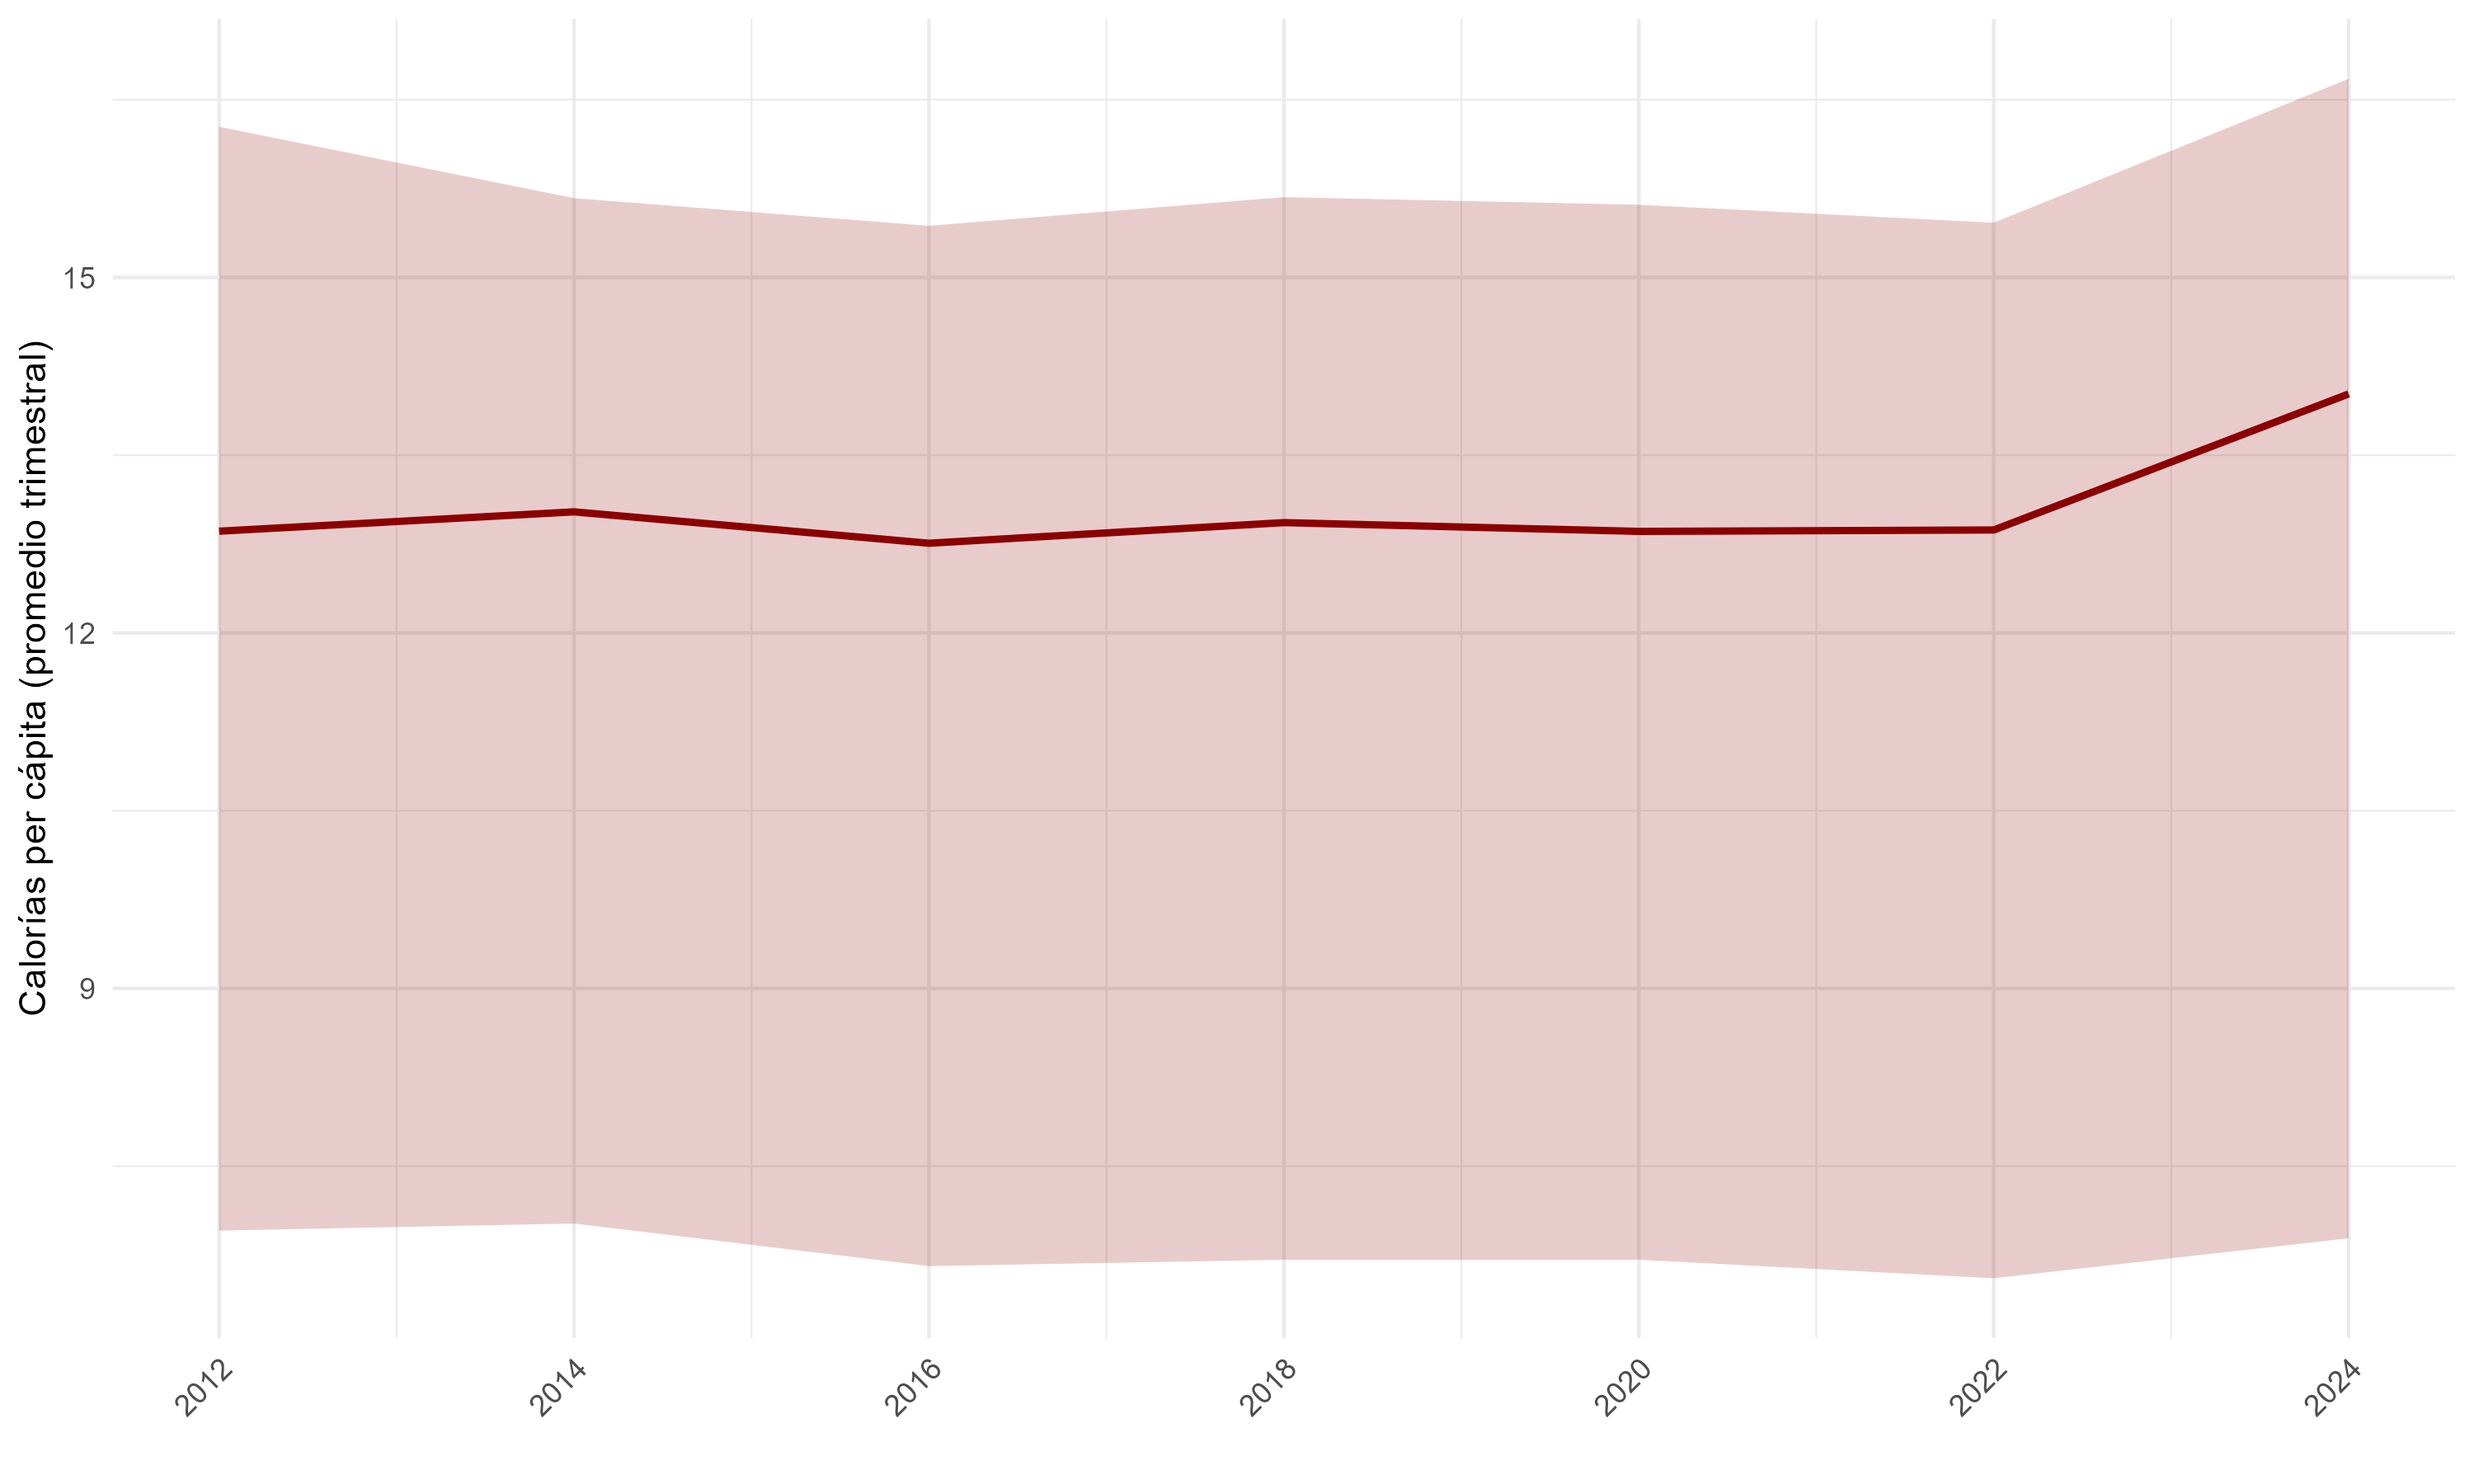
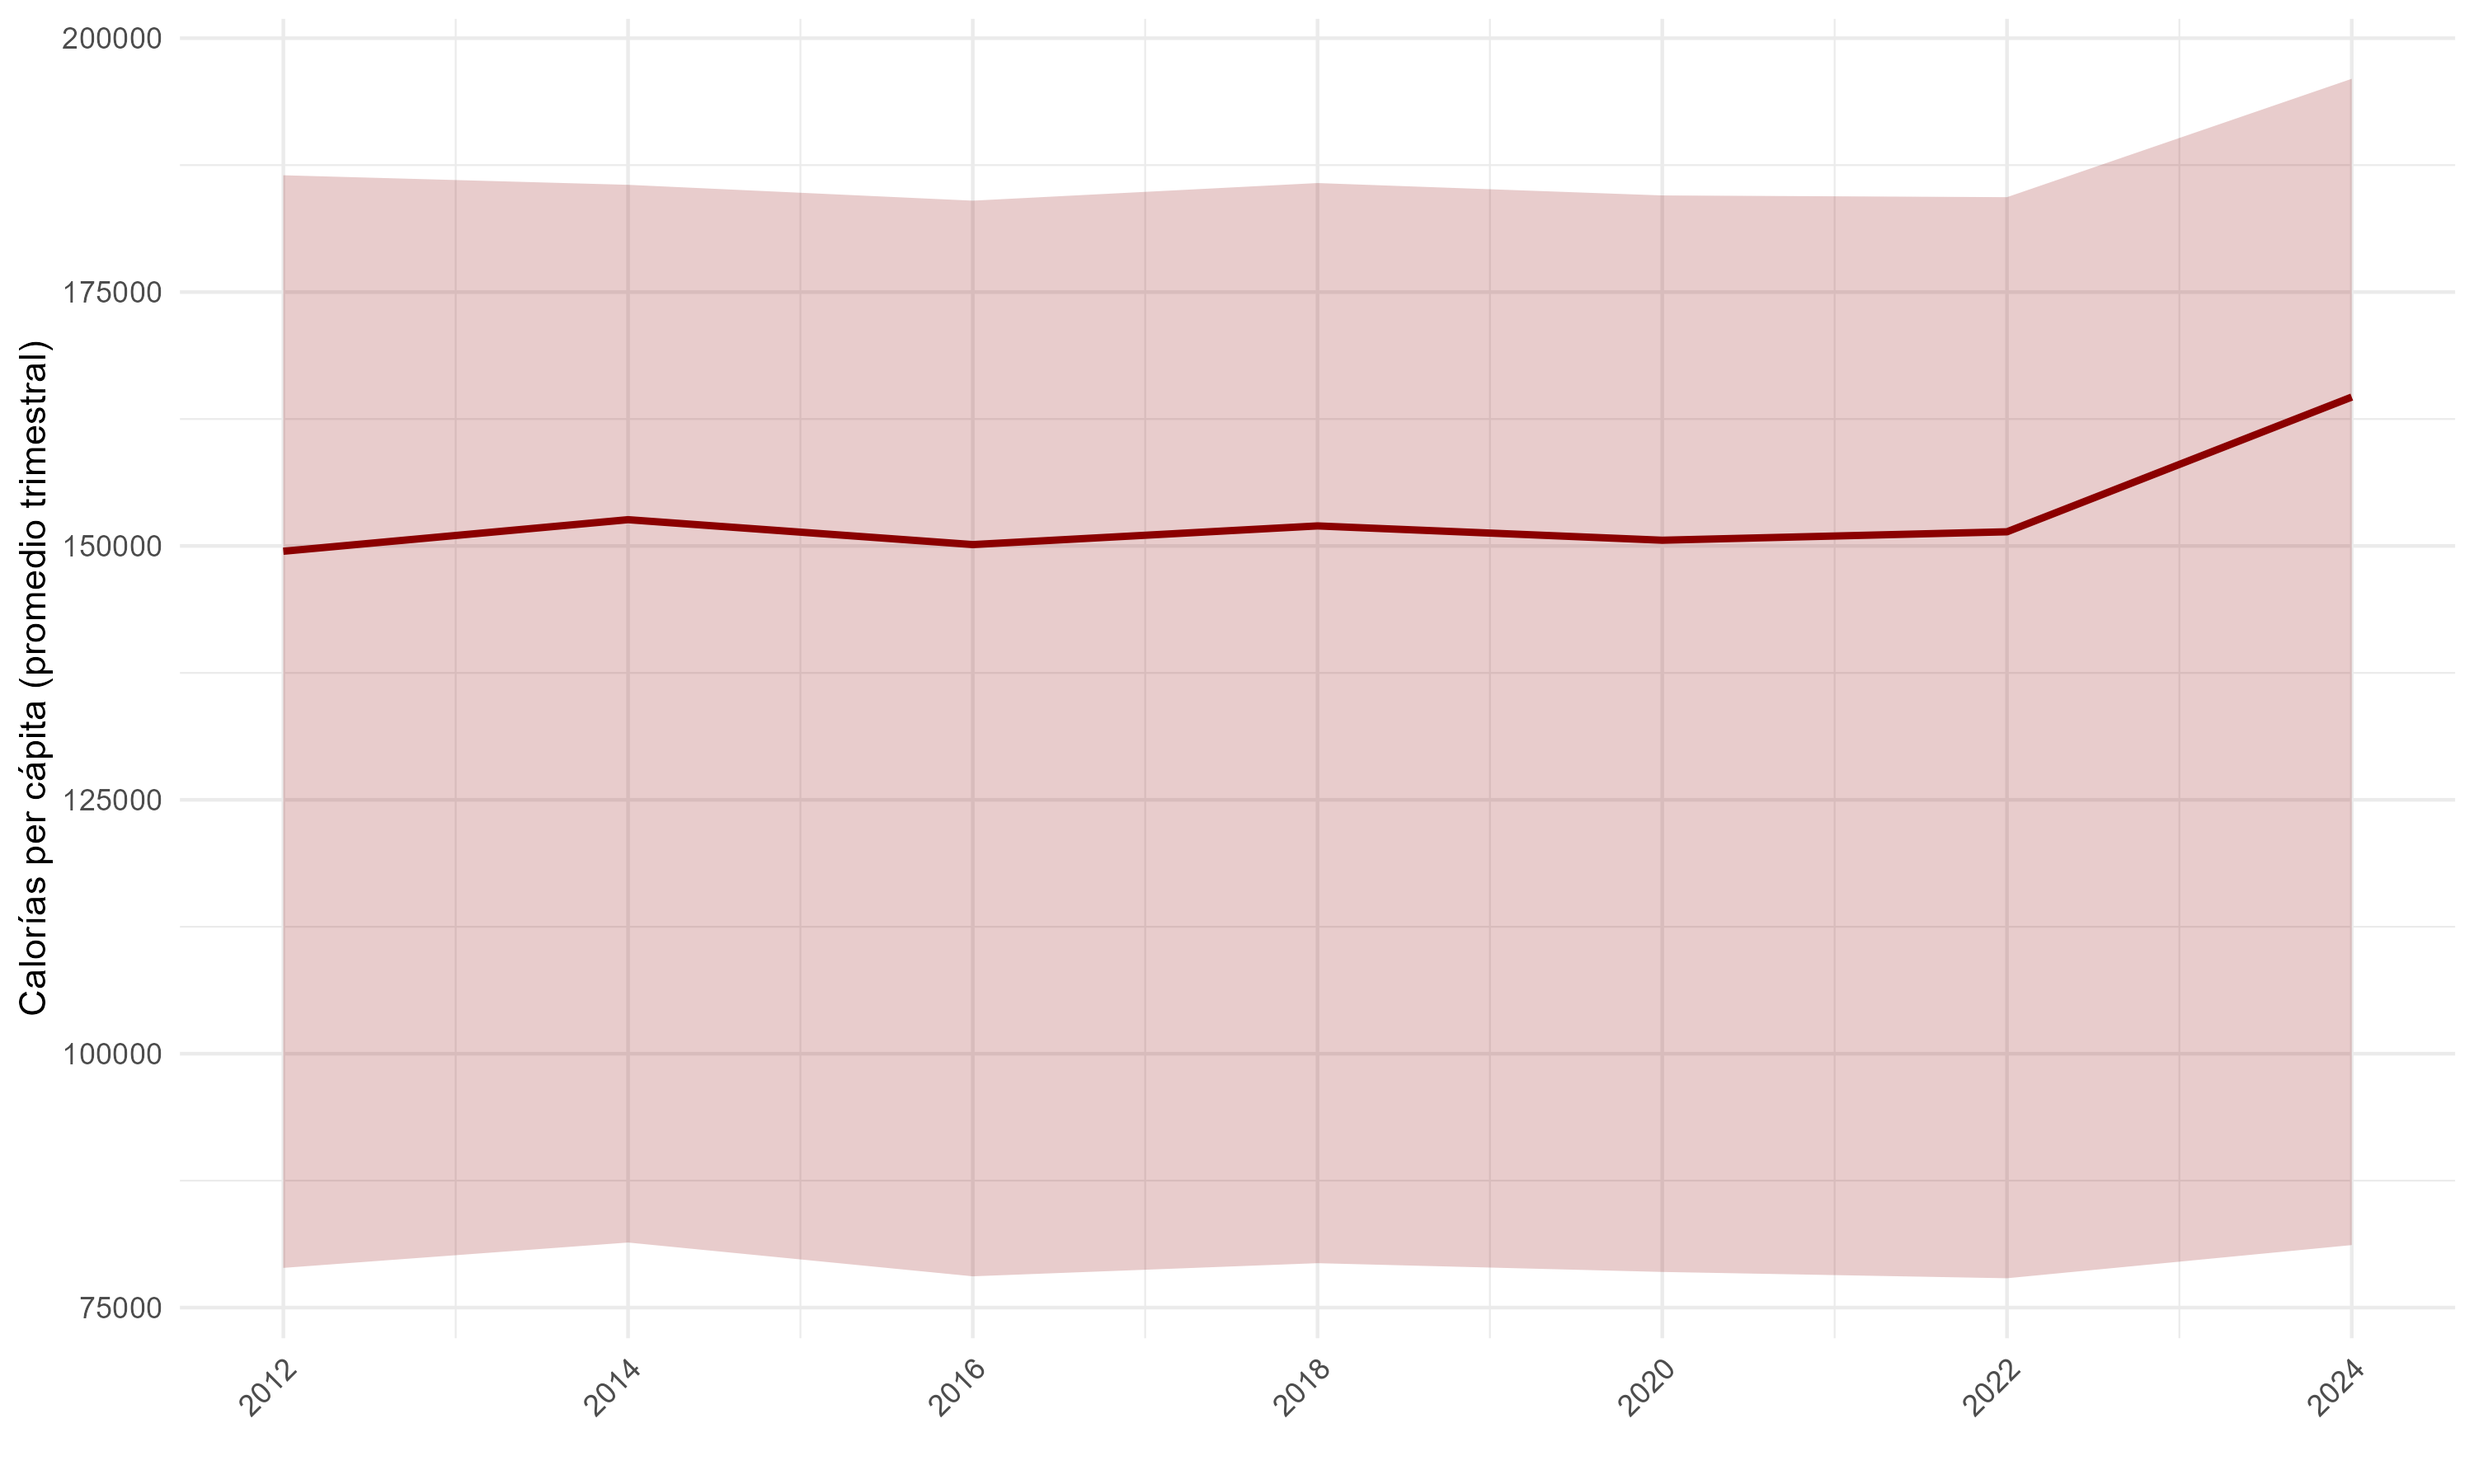
Regenera tablas y figura con base_completa actual (N=435,794)

diff --git a/output/tablas/tab_loglog.tex b/output/tablas/tab_loglog.tex
@@ -15,25 +15,25 @@ column{2-8}={}{halign=c},
 column{1}={}{halign=l},
 }                     %% tabularray inner close
 & (1) & (2) & (3) & (4) & (5) & (6) & (7) \\
-Log(tasa homicidios \$+\$ 1) & \num{-0.110}*** & \num{-0.144}*** & \num{-0.137}*** & \num{-0.042}*** & \num{-0.007} & \num{0.006} & \num{0.010} \\
-& (\num{0.030}) & (\num{0.037}) & (\num{0.037}) & (\num{0.015}) & (\num{0.014}) & (\num{0.013}) & (\num{0.012}) \\
-Log(tasa homicidios) \$t-1\$ &  &  &  &  &  & \num{-0.035}*** & \num{-0.029}** \\
-&  &  &  &  &  & (\num{0.013}) & (\num{0.014}) \\
-Log(tasa homicidios) \$t-2\$ &  &  &  &  &  &  & \num{-0.005} \\
-&  &  &  &  &  &  & (\num{0.013}) \\
-Integrantes del hogar &  & \num{-0.137}*** & \num{-0.138}*** & \num{-0.143}*** & \num{-0.146}*** & \num{-0.148}*** & \num{-0.151}*** \\
+Log(tasa homicidios \$+\$ 1) & \num{-0.052}** & \num{-0.066}** & \num{-0.061}** & \num{0.020} & \num{-0.009} & \num{0.003} & \num{0.005} \\
+& (\num{0.025}) & (\num{0.028}) & (\num{0.027}) & (\num{0.013}) & (\num{0.016}) & (\num{0.015}) & (\num{0.014}) \\
+Log(tasa homicidios) \$t-1\$ &  &  &  &  &  & \num{-0.039}** & \num{-0.031}* \\
+&  &  &  &  &  & (\num{0.016}) & (\num{0.016}) \\
+Log(tasa homicidios) \$t-2\$ &  &  &  &  &  &  & \num{-0.014} \\
+&  &  &  &  &  &  & (\num{0.015}) \\
+Integrantes del hogar &  & \num{-0.115}*** & \num{-0.116}*** & \num{-0.118}*** & \num{-0.117}*** & \num{-0.119}*** & \num{-0.122}*** \\
 &  & (\num{0.002}) & (\num{0.002}) & (\num{0.002}) & (\num{0.002}) & (\num{0.002}) & (\num{0.002}) \\
 FE año & No & No & Sí & Sí & No & No & No \\
 FE entidad & No & No & No & Sí & No & No & No \\
 FE municipio & No & No & No & No & Sí & Sí & Sí \\
 FE tiempo & No & No & No & No & Sí & Sí & Sí \\
-Cobertura cat\textbackslash{}'\{a\}logo &  & \num{2.167}*** & \num{2.176}*** & \num{2.227}*** & \num{2.221}*** & \num{2.229}*** & \num{2.252}*** \\
-&  & (\num{0.025}) & (\num{0.025}) & (\num{0.022}) & (\num{0.022}) & (\num{0.022}) & (\num{0.022}) \\
-Num.Obs. & \num{437816} & \num{437816} & \num{437816} & \num{437816} & \num{437816} & \num{424159} & \num{406433} \\
-R2 & \num{0.001} & \num{0.289} & \num{0.290} & \num{0.319} & \num{0.343} & \num{0.348} & \num{0.351} \\
-R2 Adj. & \num{0.001} & \num{0.289} & \num{0.290} & \num{0.319} & \num{0.341} & \num{0.345} & \num{0.349} \\
-R2 Within &  &  & \num{0.289} & \num{0.303} & \num{0.307} & \num{0.313} & \num{0.318} \\
-R2 Within Adj. &  &  & \num{0.289} & \num{0.303} & \num{0.307} & \num{0.313} & \num{0.318} \\
+Cobertura cat\textbackslash{}'\{a\}logo &  & \num{2.025}*** & \num{2.031}*** & \num{2.097}*** & \num{2.104}*** & \num{2.114}*** & \num{2.146}*** \\
+&  & (\num{0.028}) & (\num{0.029}) & (\num{0.026}) & (\num{0.026}) & (\num{0.027}) & (\num{0.026}) \\
+Num.Obs. & \num{435794} & \num{435794} & \num{435794} & \num{435794} & \num{435794} & \num{422207} & \num{404578} \\
+R2 & \num{0.000} & \num{0.208} & \num{0.209} & \num{0.228} & \num{0.253} & \num{0.257} & \num{0.261} \\
+R2 Adj. & \num{0.000} & \num{0.208} & \num{0.209} & \num{0.227} & \num{0.250} & \num{0.254} & \num{0.258} \\
+R2 Within &  &  & \num{0.208} & \num{0.216} & \num{0.217} & \num{0.223} & \num{0.230} \\
+R2 Within Adj. &  &  & \num{0.208} & \num{0.216} & \num{0.217} & \num{0.223} & \num{0.230} \\
 FE: municipio\_id &  &  &  &  & X & X & X \\
 FE: time\_id &  &  &  &  & X & X & X \\
 FE: year &  &  & X & X &  &  &  \\

diff --git a/output/tablas/tab_lognivel.tex b/output/tablas/tab_lognivel.tex
@@ -15,25 +15,25 @@ column{2-7}={}{halign=c},
 column{1}={}{halign=l},
 }                     %% tabularray inner close
 & (1) & (2) & (3) & (4) & (5) & (6) \\
-Tasa homicidios & \num{-0.046}*** & \num{-0.066}*** & \num{-0.062}*** & \num{-0.011} & \num{-0.002} & \num{0.007} \\
-& (\num{0.017}) & (\num{0.020}) & (\num{0.020}) & (\num{0.008}) & (\num{0.007}) & (\num{0.006}) \\
+Tasa homicidios & \num{-0.025}* & \num{-0.037}** & \num{-0.033}** & \num{0.012}* & \num{-0.001} & \num{0.005} \\
+& (\num{0.013}) & (\num{0.015}) & (\num{0.014}) & (\num{0.007}) & (\num{0.008}) & (\num{0.007}) \\
 Tasa homicidios \$t-1\$ &  &  &  &  &  & \num{-0.018}** \\
+&  &  &  &  &  & (\num{0.009}) \\
+Tasa homicidios \$t-2\$ &  &  &  &  &  & \num{-0.007} \\
 &  &  &  &  &  & (\num{0.008}) \\
-Tasa homicidios \$t-2\$ &  &  &  &  &  & \num{-0.001} \\
-&  &  &  &  &  & (\num{0.007}) \\
-Integrantes del hogar &  & \num{-0.136}*** & \num{-0.138}*** & \num{-0.143}*** & \num{-0.146}*** & \num{-0.151}*** \\
+Integrantes del hogar &  & \num{-0.115}*** & \num{-0.116}*** & \num{-0.118}*** & \num{-0.117}*** & \num{-0.121}*** \\
 &  & (\num{0.002}) & (\num{0.002}) & (\num{0.002}) & (\num{0.002}) & (\num{0.002}) \\
 FE año & No & No & Sí & Sí & No & No \\
 FE entidad & No & No & No & Sí & No & No \\
 FE municipio & No & No & No & No & Sí & Sí \\
 FE tiempo & No & No & No & No & Sí & Sí \\
-Cobertura cat\textbackslash{}'\{a\}logo &  & \num{2.167}*** & \num{2.176}*** & \num{2.227}*** & \num{2.221}*** & \num{2.252}*** \\
-&  & (\num{0.025}) & (\num{0.025}) & (\num{0.022}) & (\num{0.022}) & (\num{0.022}) \\
-Num.Obs. & \num{437816} & \num{437816} & \num{437816} & \num{437816} & \num{437816} & \num{406433} \\
-R2 & \num{0.000} & \num{0.288} & \num{0.290} & \num{0.319} & \num{0.343} & \num{0.351} \\
-R2 Adj. & \num{0.000} & \num{0.288} & \num{0.290} & \num{0.319} & \num{0.341} & \num{0.349} \\
-R2 Within &  &  & \num{0.289} & \num{0.303} & \num{0.307} & \num{0.318} \\
-R2 Within Adj. &  &  & \num{0.289} & \num{0.303} & \num{0.307} & \num{0.318} \\
+Cobertura cat\textbackslash{}'\{a\}logo &  & \num{2.025}*** & \num{2.031}*** & \num{2.097}*** & \num{2.104}*** & \num{2.146}*** \\
+&  & (\num{0.028}) & (\num{0.029}) & (\num{0.026}) & (\num{0.026}) & (\num{0.026}) \\
+Num.Obs. & \num{435794} & \num{435794} & \num{435794} & \num{435794} & \num{435794} & \num{404578} \\
+R2 & \num{0.000} & \num{0.208} & \num{0.209} & \num{0.228} & \num{0.253} & \num{0.261} \\
+R2 Adj. & \num{0.000} & \num{0.208} & \num{0.209} & \num{0.227} & \num{0.250} & \num{0.258} \\
+R2 Within &  &  & \num{0.208} & \num{0.216} & \num{0.217} & \num{0.230} \\
+R2 Within Adj. &  &  & \num{0.208} & \num{0.216} & \num{0.217} & \num{0.230} \\
 FE: municipio\_id &  &  &  &  & X & X \\
 FE: time\_id &  &  &  &  & X & X \\
 FE: year &  &  & X & X &  &  \\

diff --git a/output/tablas/tab_mm.tex b/output/tablas/tab_mm.tex
@@ -15,19 +15,19 @@ column{2-5}={}{halign=c},
 column{1}={}{halign=l},
 }                     %% tabularray inner close
 & Solo FE mun. & Two-way FE & Two-way FE + integ. & Two-way FE + controles \\
-Log(tasa homicidios \$+\$ 1) & \num{-0.019} & \num{-0.017} & \num{-0.016} & \num{-0.007} \\
-& (\num{0.018}) & (\num{0.017}) & (\num{0.017}) & (\num{0.014}) \\
-Integrantes del hogar &  &  & \num{-0.086}*** & \num{-0.146}*** \\
+Log(tasa homicidios \$+\$ 1) & \num{-0.015} & \num{-0.016} & \num{-0.015} & \num{-0.009} \\
+& (\num{0.018}) & (\num{0.018}) & (\num{0.018}) & (\num{0.016}) \\
+Integrantes del hogar &  &  & \num{-0.084}*** & \num{-0.117}*** \\
 &  &  & (\num{0.002}) & (\num{0.002}) \\
 FE municipio & Sí & Sí & Sí & Sí \\
 FE tiempo & No & Sí & Sí & Sí \\
-Cobertura cat\textbackslash{}'\{a\}logo &  &  &  & \num{2.221}*** \\
-&  &  &  & (\num{0.022}) \\
-Num.Obs. & \num{437816} & \num{437816} & \num{437816} & \num{437816} \\
-R2 & \num{0.050} & \num{0.052} & \num{0.097} & \num{0.343} \\
-R2 Adj. & \num{0.046} & \num{0.048} & \num{0.093} & \num{0.341} \\
-R2 Within & \num{0.000} & \num{0.000} & \num{0.048} & \num{0.307} \\
-R2 Within Adj. & \num{0.000} & \num{0.000} & \num{0.048} & \num{0.307} \\
+Cobertura cat\textbackslash{}'\{a\}logo &  &  &  & \num{2.104}*** \\
+&  &  &  & (\num{0.026}) \\
+Num.Obs. & \num{435794} & \num{435794} & \num{435794} & \num{435794} \\
+R2 & \num{0.043} & \num{0.045} & \num{0.087} & \num{0.253} \\
+R2 Adj. & \num{0.039} & \num{0.041} & \num{0.083} & \num{0.250} \\
+R2 Within & \num{0.000} & \num{0.000} & \num{0.043} & \num{0.217} \\
+R2 Within Adj. & \num{0.000} & \num{0.000} & \num{0.043} & \num{0.217} \\
 FE: municipio\_id & X & X & X & X \\
 FE: time\_id &  & X & X & X \\
 \end{talltblr}
